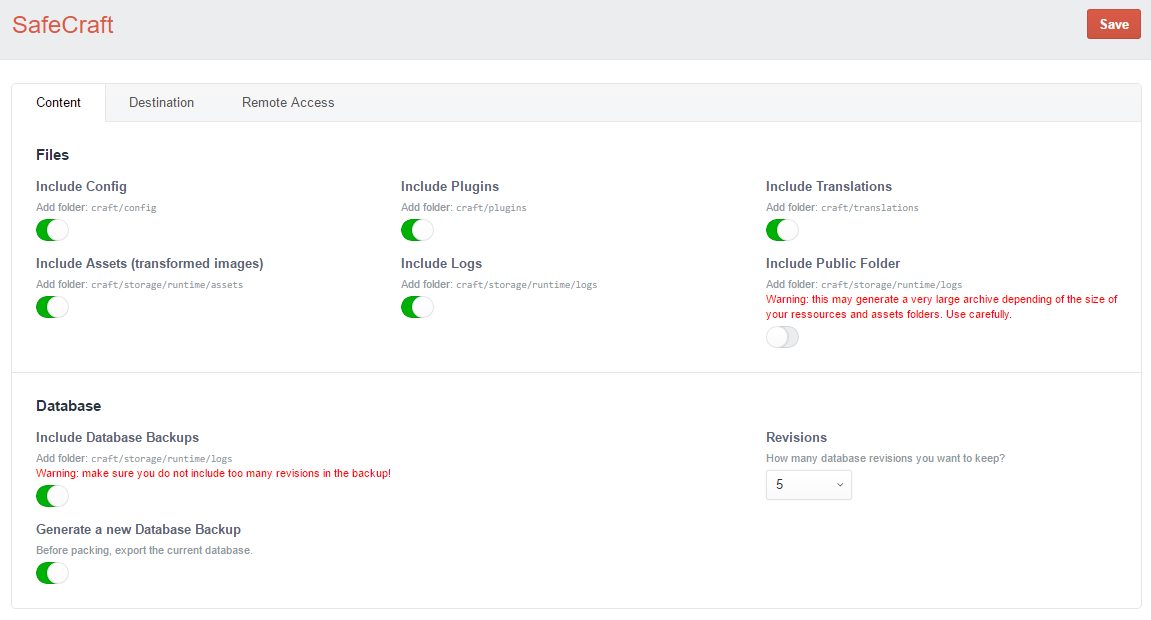
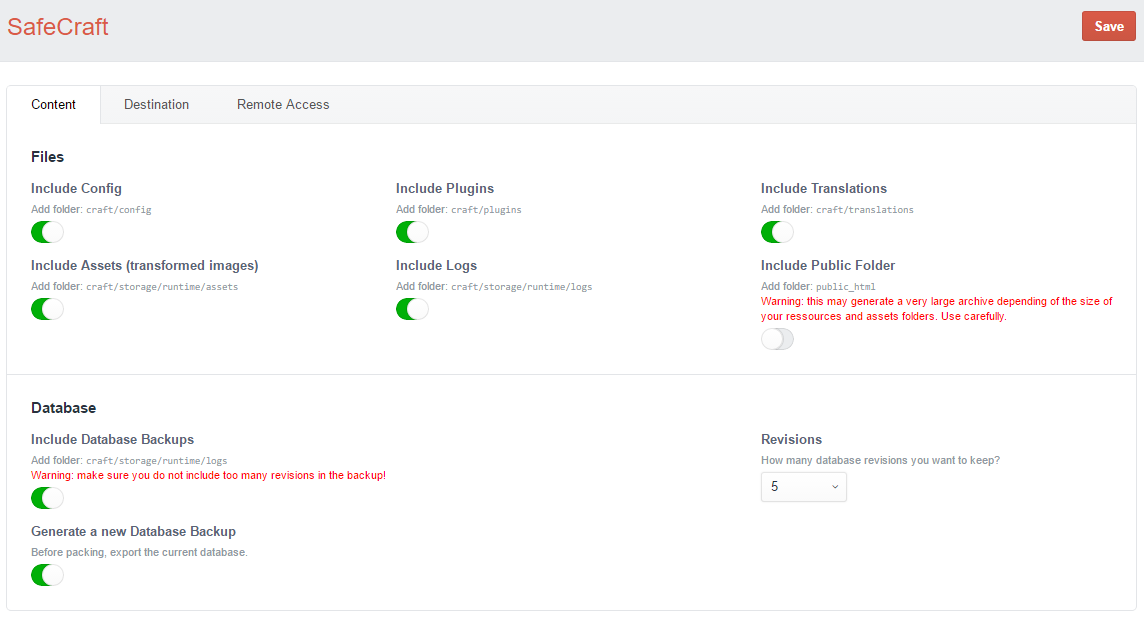
Correction in settings

diff --git a/variables/SafeCraftVariable.php b/variables/SafeCraftVariable.php
@@ -1,0 +1,10 @@
+<?php
+namespace Craft;
+
+class SafeCraftVariable
+{
+    public function getPublicPath()
+    {
+        return basename(dirname($_SERVER["SCRIPT_FILENAME"]));
+    }
+}
